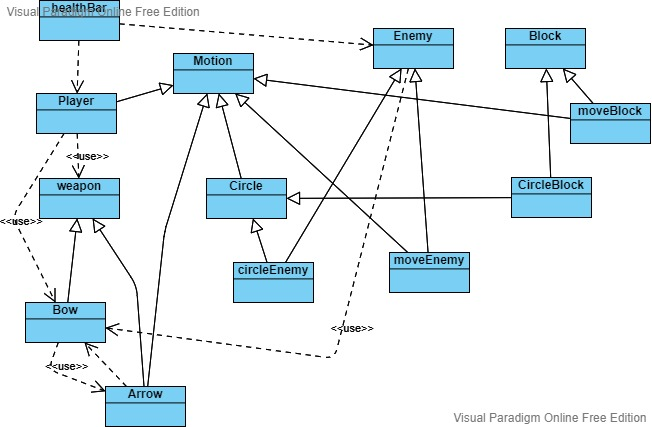
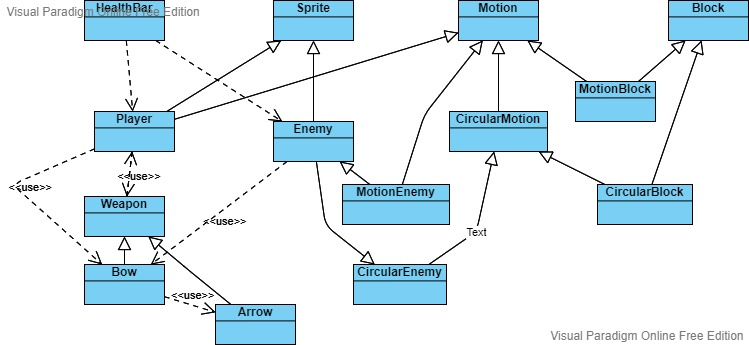
Retirando sprites de motion.

diff --git a/circularmotion.cpp b/circularmotion.cpp
@@ -1,0 +1,53 @@
+#include "circularmotion.h"
+#include <qdebug.h>
+CircularMotion::CircularMotion()
+{
+
+}
+
+CircularMotion::CircularMotion(float posx, float posy, float radio, float angularPos, float angularVel, float angularAcc, float speedIni)
+{
+    setSprite(":/new/sprites/sprites/demonio.png");
+    setSize(48,48);
+    setFrame(1);
+    setPos(144,0);
+    setVel(0,0);
+    setAce({0,0});
+    periodo = TTT;
+    this->radio = radio;
+    this->angularAcc = angularAcc;
+    this->angularVel = angularVel;
+    this->angularPos = angularPos;
+    this->speed = speedIni;
+}
+
+void CircularMotion::move()
+{
+    calculateAceleration();
+    v = v + a*periodo;
+    setPos(pos() + (v*periodo).toPointF());
+    qDebug() << pos();
+}
+
+void CircularMotion::calculateAceleration()
+{
+    angularVel = angularVel + angularAcc*periodo;
+    angularPos = angularPos + angularVel*periodo;
+    calculateAccNormal();
+    calculateAccTangential();
+    a = accTangential + accNormal;
+}
+
+void CircularMotion::calculateAccTangential()
+{
+    uniTangential.setX((-1)*qSin(angularPos));
+    uniTangential.setY(qCos(angularPos));
+    accTangential = radio*angularAcc*uniTangential;
+}
+
+void CircularMotion::calculateAccNormal()
+{
+    uniNormal.setX((-1)*qCos(angularPos));
+    uniNormal.setY((-1)*qSin(angularPos));
+    accNormal = radio*angularVel*uniNormal;
+}

diff --git a/thebox.cpp b/thebox.cpp
@@ -7,6 +7,8 @@
 #include <healthbar.h>
 #include <weapon.h>
 #include <enemy.h>
+#include <circularmotion.h>
+#include <qdebug.h>
 extern Game *game;
 float *gravityTest = new float;
 TheBox::TheBox(QWidget *parent) :
@@ -30,6 +32,12 @@ TheBox::TheBox(QWidget *parent) :
     prueba->setWeapon(new Weapon(prueba));
     prueba->setHealthBar(new HealthBar(prueba));
     game->player = prueba;
+
+    //pintando bloque de prueba
+    CircularMotion *testCircular = new CircularMotion(144,144,144,0,0.1);
+    scene->addItem(testCircular);
+    connect(game->timer, SIGNAL(timeout()), testCircular, SLOT(move()));
+
     //enemigo
     scene->addItem(pruebaColli = new Enemy(":/new/sprites/sprites/hombre_lobo.png", 240, 240));
     //game->timer->stop();
@@ -53,9 +61,9 @@ void TheBox::generateFil(int num, int mx, int my)
 void TheBox::generateSandBox()
 {
     //generateCol(10,1,1);
-    generateCol(12,20,0);
-    generateFil(20,3,2);
-    generateFil(15,1,10);
+    //generateCol(12,20,0);
+    //generateFil(20,3,2);
+    generateFil(16,1,11);
     //generateGrid();
     for (int i = 0; i<game->blocks->size();i++ ) {
         scene->addItem(game->blocks->at(i));

diff --git a/circularmotion.h b/circularmotion.h
@@ -1,0 +1,32 @@
+#ifndef CIRCULARMOTION_H
+#define CIRCULARMOTION_H
+
+#include <motion.h>
+class CircularMotion : public Motion
+{
+    Q_OBJECT
+public:
+    CircularMotion();
+    CircularMotion(float posx, float posy,
+                   float radio,
+                   float angularPos,
+                   float angularVel,
+                   float angularAcc = 0,
+                   float speedIni = 0);
+
+public slots:
+    virtual void move() override;
+
+protected:
+    void calculateAceleration() override;
+    void calculateAccTangential();
+    void calculateAccNormal();
+    float radio;
+    float angularAcc;
+    float angularVel;
+    float angularPos;
+    QVector2D accTangential, uniTangential;
+    QVector2D accNormal, uniNormal;
+};
+
+#endif // CIRCULARMOTION_H

diff --git a/macros.h b/macros.h
@@ -4,10 +4,10 @@
 //Parametros generales del juego
 #define SIZE_BLOCK 48
 #define GAME_SCALE 1
-#define CLOCK_GAME 10
+#define CLOCK_GAME 100
 
 //Movimiento - Simulacion fisica
-#define TTT 1
+#define TTT 0.1
 #define GRAVEDAD 0.1
 
 //Player

diff --git a/block.h b/block.h
@@ -7,8 +7,8 @@ class Block : public QObject , public QGraphicsRectItem
 {
     Q_OBJECT
 public:
+    Block() {};
     explicit Block(QPointF pos , unsigned int width, unsigned int height, QObject *parent = nullptr);
-
 };
 
 #endif // BLOCK_H

diff --git a/motion.h b/motion.h
@@ -4,6 +4,7 @@
 #include <sprite.h>
 #include <QVector2D>
 #include <math.h>
+#include <QtMath>
 #include <QTimer>
 extern float *gravityTest;
 class Block;
